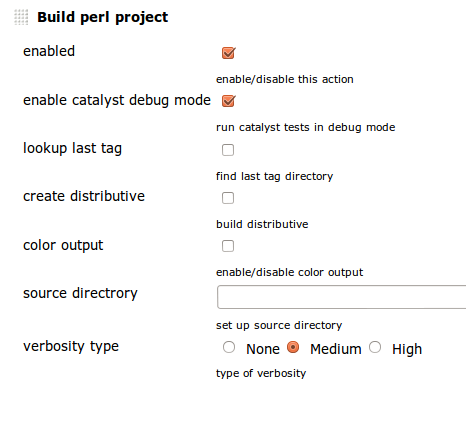
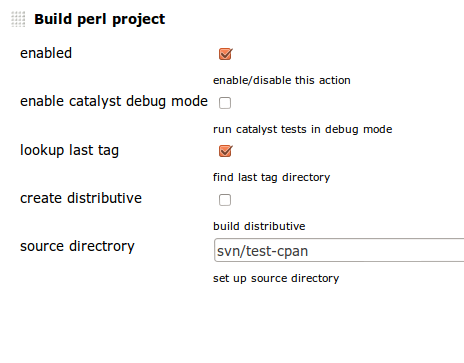
verbose-control

diff --git a/models/perl_builder.rb b/models/perl_builder.rb
@@ -6,7 +6,7 @@ require 'term/ansicolor'
 class PerlBuilder < Jenkins::Tasks::Builder
     include Term::ANSIColor
 
-    attr_accessor :attrs, :enabled, :verbosity_type, :catalyst_debug, :lookup_last_tag, :patches, :make_dist, :source_dir, :color_output
+    attr_accessor :attrs, :enabled, :verbose_output, :catalyst_debug, :lookup_last_tag, :patches, :make_dist, :source_dir, :color_output
 
     display_name "Build perl project" 
 
@@ -15,7 +15,7 @@ class PerlBuilder < Jenkins::Tasks::Builder
     def initialize(attrs = {})
         @attrs = attrs
         @enabled = attrs["enabled"]
-        @verbosity_type = attrs["verbosity_type"]
+        @verbose_output = attrs["verbose_output"]
         @catalyst_debug = attrs["catalyst_debug"]
         @lookup_last_tag = attrs["lookup_last_tag"]
         @patches = attrs["patches"] || ""
@@ -57,7 +57,7 @@ class PerlBuilder < Jenkins::Tasks::Builder
         end
 
         listener.info("plugin input parameters: #{@attrs}")
-        listener.info("verbosity_type: #{@verbosity_type}")
+        listener.info("verbose_output: #{@verbose_output}")
         listener.info("enabled: #{@enabled}")
         cpan_mirror = env['cpan_mirror'] || default_cpan_mirror
         cpan_source_chunk = (cpan_mirror.nil? || cpan_mirror.empty?) ? "" :  "--mirror #{cpan_mirror}  --mirror-only"
@@ -74,7 +74,7 @@ class PerlBuilder < Jenkins::Tasks::Builder
         # start build
         if @enabled == true 
             # setup verbosity  
-            if @verbosity_type == 'high'
+            if @verbose_output == true
                 File.open("#{workspace}/modulebuildrc", 'w') {|f| f.write("test verbose=1") }
             else  
                 File.open("#{workspace}/modulebuildrc", 'w') {|f| f.write("test verbose=0") }
@@ -84,7 +84,7 @@ class PerlBuilder < Jenkins::Tasks::Builder
             @patches.split("\n").map {|l| l.chomp }.reject {|l| l.nil? || l.empty? || l =~ /^\s+#/ || l =~ /^#/ }.map{ |l| l.sub(/#.*/){""} }.each do |l|
                 listener.info (@color_output == true) ? blue("apply patch: #{l}") : "apply patch: #{l}"
                 cmd = []
-                cpan_mini_verbose = @verbosity_type == 'none' ? '' : '-v'
+                cpan_mini_verbose = @verbose_output == false ? '' : '-v'
                 cmd << "export CATALYST_DEBUG=1" if @catalyst_debug == true 
                 cmd << "export MODULEBUILDRC=#{workspace}/modulebuildrc"
                 cmd << "export LC_ALL=#{env['LC_ALL']}" unless ( env['LC_ALL'].nil? || env['LC_ALL'].empty? )
@@ -104,7 +104,7 @@ class PerlBuilder < Jenkins::Tasks::Builder
 
             listener.info (@color_output == true) ? blue("building last tag: #{last_tag}") : "building last tag: #{last_tag}"
             cmd = []
-            cpan_mini_verbose = @verbosity_type == 'none' ? '' : '-v'
+            cpan_mini_verbose = @verbose_output == false ? '' : '-v'
             
             cmd << "export CATALYST_DEBUG=1" if @catalyst_debug == true 
             cmd << "export MODULEBUILDRC=#{workspace}/modulebuildrc"
@@ -127,11 +127,9 @@ class PerlBuilder < Jenkins::Tasks::Builder
                 listener.info (@color_output == true) ? blue("creating distributive from last tag: #{app_last_tag}") : "creating distributive from last tag: #{app_last_tag}"
                 cmd = []
                 module_build_verbosity = ''
-                if @verbosity_type == 'none' 
+                if @verbose_output == false 
                     module_build_verbosity = '--quiet'
-                elsif @verbosity_type == 'medium' 
-                    module_build_verbosity = ''
-                elsif @verbosity_type == 'High'
+                elsif @verbose_output == true
                     module_build_verbosity = '--verbose'
                 end
 
